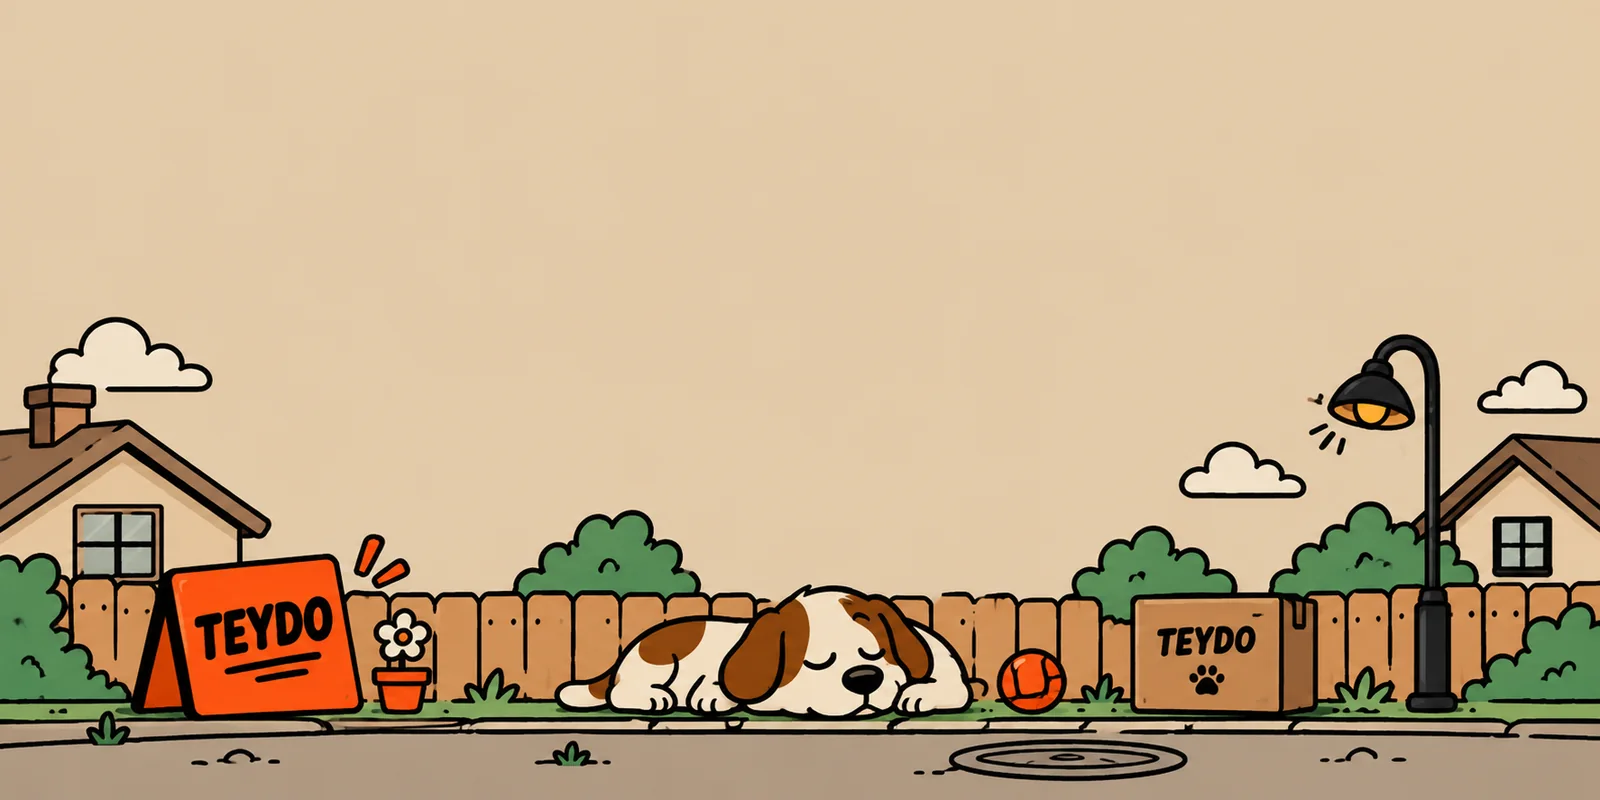
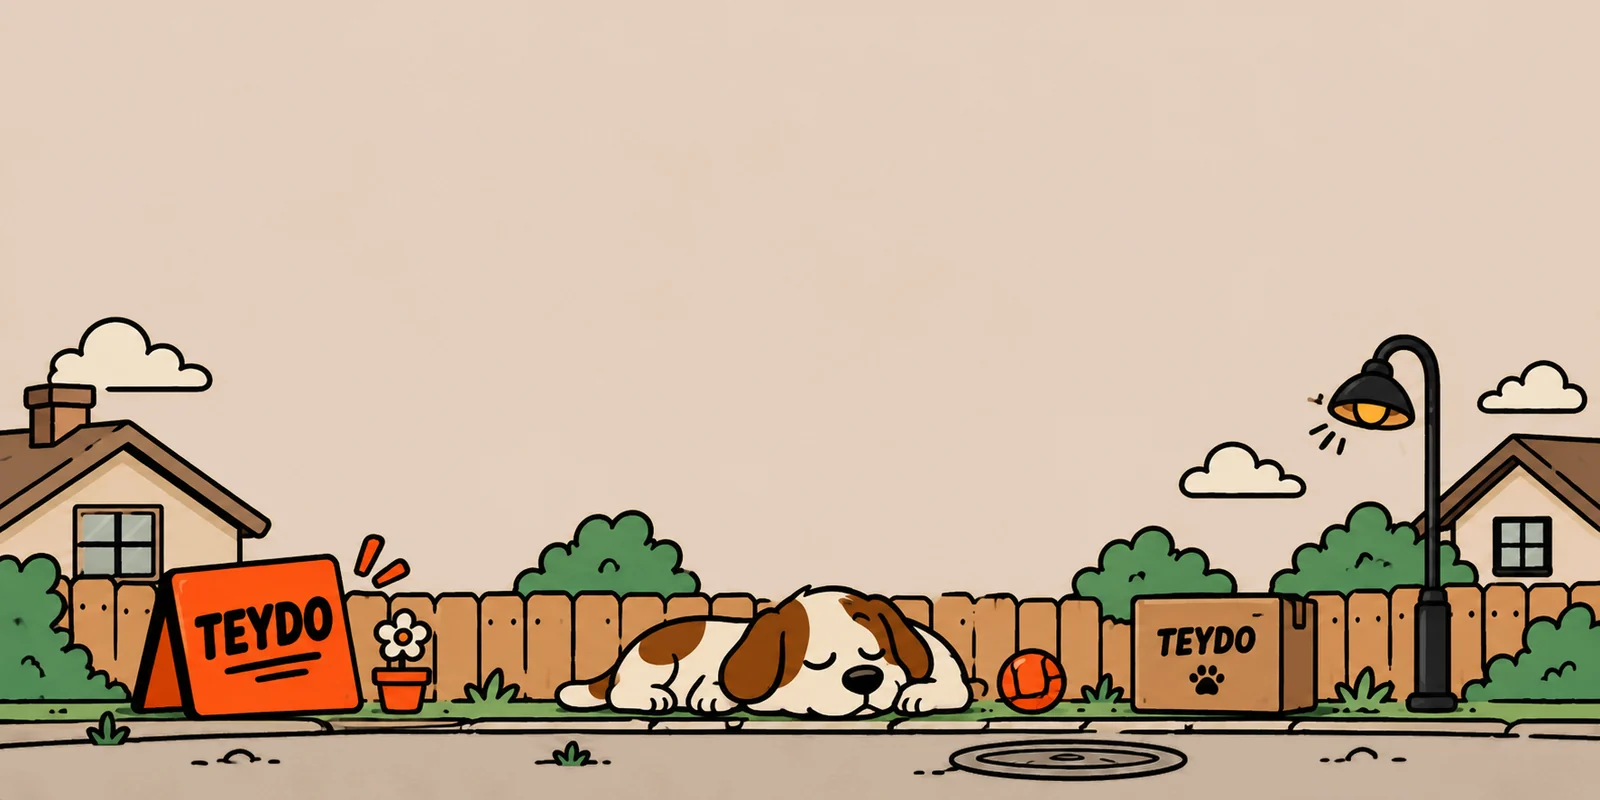
Вопросы в «Помощи» — одной колонкой, фон полосы подвала под цвет сайта
Пять групп вопросов переведены на тот же аккордеон, что и на главной:
одна колонка, плавное раскрытие, доворот плюса в крестик. Добавлен
параметр defaultOpen — на главной первый вопрос открыт, в «Помощи»
все закрыты, иначе на загрузке раскрывалось бы сразу пять.

Фон полосы подвала перекрашен в #E4CFBE: шов между страницей
и картинкой пропал. Замена плавная по близости к исходному цвету —
резкая маска оставила бы кайму вокруг обводок.

Claude-Session: https://claude.ai/code/session_01HRsn14F8ASbURgzAb7PKvg

Changed region(s): [[0.0, 0.9062, 1.0, 1.0]]

diff --git a/src/app/help/page.tsx b/src/app/help/page.tsx
@@ -2,6 +2,7 @@ import type { Metadata } from 'next';
 import Link from 'next/link';
 import { SiteHeader, SiteFooter, Section, PageHero } from '@/components/site/Chrome';
 import { Reveal } from '@/components/site/motion';
+import { Accordion } from '@/components/site/Accordion';
 import { Button, Card } from '@/components/ui';
 import { BRAND } from '@/lib/brand';
 import { COMMISSION_PERCENT } from '@/lib/pricing';
@@ -98,16 +99,8 @@ export default function HelpPage() {
 
         {GROUPS.map((g, gi) => (
           <Section key={g.title} eyebrow={gi === 0 ? 'Вопросы и ответы' : undefined} title={g.title} className="!pt-0">
-            <div className="grid gap-3 lg:grid-cols-2">
-              {g.items.map((f) => (
-                <details key={f.q} className="group rounded-lg border-3 border-ink bg-card p-5 shadow-pop-sm open:bg-surface">
-                  <summary className="flex cursor-pointer list-none items-center justify-between gap-4 text-[17px] font-bold">
-                    {f.q}
-                    <span aria-hidden className="grid h-7 w-7 shrink-0 place-items-center rounded-full border-2 border-ink text-sm transition-transform group-open:rotate-45">+</span>
-                  </summary>
-                  <p className="mt-3 border-t-2 border-ink/10 pt-3 text-[15px] leading-relaxed text-muted">{f.a}</p>
-                </details>
-              ))}
+            <div className="max-w-[820px]">
+              <Accordion items={g.items} />
             </div>
           </Section>
         ))}

diff --git a/src/components/site/Accordion.tsx b/src/components/site/Accordion.tsx
@@ -7,8 +7,12 @@ import { cx } from '@/components/ui';
  * Вопрос-ответ с плавным раскрытием.
  * Нативный <details> высоту не анимирует, поэтому раскрываем сеткой 0fr→1fr.
  */
-export function Accordion({ items }: { items: { q: string; a: string }[] }) {
-  const [open, setOpen] = useState<number | null>(0);
+export function Accordion({ items, defaultOpen = null }: {
+  items: { q: string; a: string }[];
+  /** Индекс раскрытого вопроса при загрузке. null — все закрыты. */
+  defaultOpen?: number | null;
+}) {
+  const [open, setOpen] = useState<number | null>(defaultOpen);
   const base = useId();
 
   return (

diff --git a/src/app/page.tsx b/src/app/page.tsx
@@ -195,7 +195,7 @@ export default function LandingPage() {
         {/* ---------- Вопросы ---------- */}
         <Section id="faq" eyebrow="Вопросы" title="Коротко о главном" className="!pb-24 !pt-0">
           <div className="mx-auto max-w-[820px]">
-            <Accordion items={FAQ} />
+            <Accordion items={FAQ} defaultOpen={0} />
           </div>
         </Section>
       </main>
